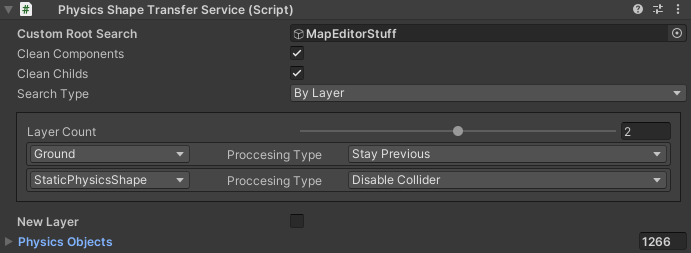
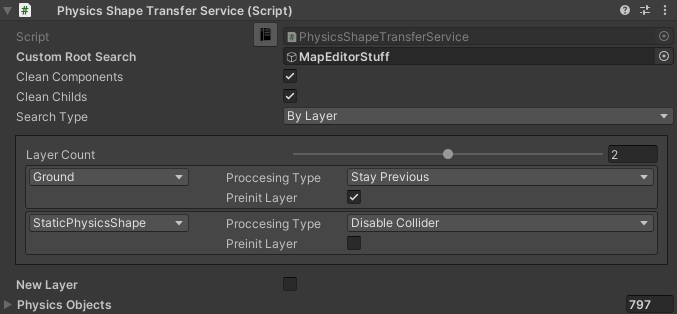
up

diff --git a/docs/source/structure.rst b/docs/source/structure.rst
@@ -107,7 +107,7 @@ Tool for cloning :ref:`Pedestrian nodes <pedestrianNode>` that are part of the p
 
 	.. image:: /images/road/installation/PedestrianNodeTransferService.png
 	
-	.. note:: For example, can be useful to separate the `Home prefab` asset and its attached :ref:`Pedestrian nodes <pedestrianNode>`.
+	.. note:: For example, can be useful to separate the `Building prefab` asset and its attached :ref:`Pedestrian nodes <pedestrianNode>`.
 	
 How To Use
 """"""""""""""
@@ -140,5 +140,7 @@ Settings
 **Proccesing type** : 
 	* **Stay previous** : cloning found `PhysicsShape <https://docs.unity3d.com/Packages/com.unity.physics@1.0/manual/custom-samples-physics-components.html>`_ or `Collider <https://docs.unity3d.com/ScriptReference/Collider.html>`_ to :ref:`subscene <subscene>`, useful to keep `default collider <https://docs.unity3d.com/ScriptReference/Collider.html>`_ and `Unity.Physics collider <https://docs.unity3d.com/Packages/com.unity.physics@1.0/manual/custom-samples-physics-components.html>`_ running at the same time.
 	* **Disable collider** : cloning found `PhysicsShape <https://docs.unity3d.com/Packages/com.unity.physics@1.0/manual/custom-samples-physics-components.html>`_ or `Collider <https://docs.unity3d.com/ScriptReference/Collider.html>`_ to :ref:`subscene <subscene>` and disable it.
+
+**Preinit layer** : enable :ref:`pre-init <extendedStateList>` cull state for physics objects.
 
 | **New layer** : assigns new layer for cloned shape.

diff --git a/docs/source/streaming.rst b/docs/source/streaming.rst
@@ -22,7 +22,7 @@ States
 
 * **Culled** : entity is far away (by default, the entity is destroyed or disabled).
 * **CloseToCamera** : entity is enabled but with limited or modified functionality for better performance.
-* **PreInitInCamera** : state between to `CloseToCamera` and `InViewOfCamera`, currently used to activate static physics objects **[optional]**.
+* **PreInitInCamera** : :ref:`state <extendedStateList>` between to `CloseToCamera` and `InViewOfCamera`, currently used to activate static physics objects **[optional]**.
 * **InViewOfCamera** : entity is fully enabled.
 
 Default State List
@@ -35,6 +35,8 @@ The default list is used for most objects, contains *Culled*, *Close to camera*,
 	
 	.. note:: 
 		* States add to the prefab entity by `CullComponentsExtension.CullComponentSet` extension method.
+	
+.. _extendedStateList:
 	
 Extended State List
 """"""""""""""
